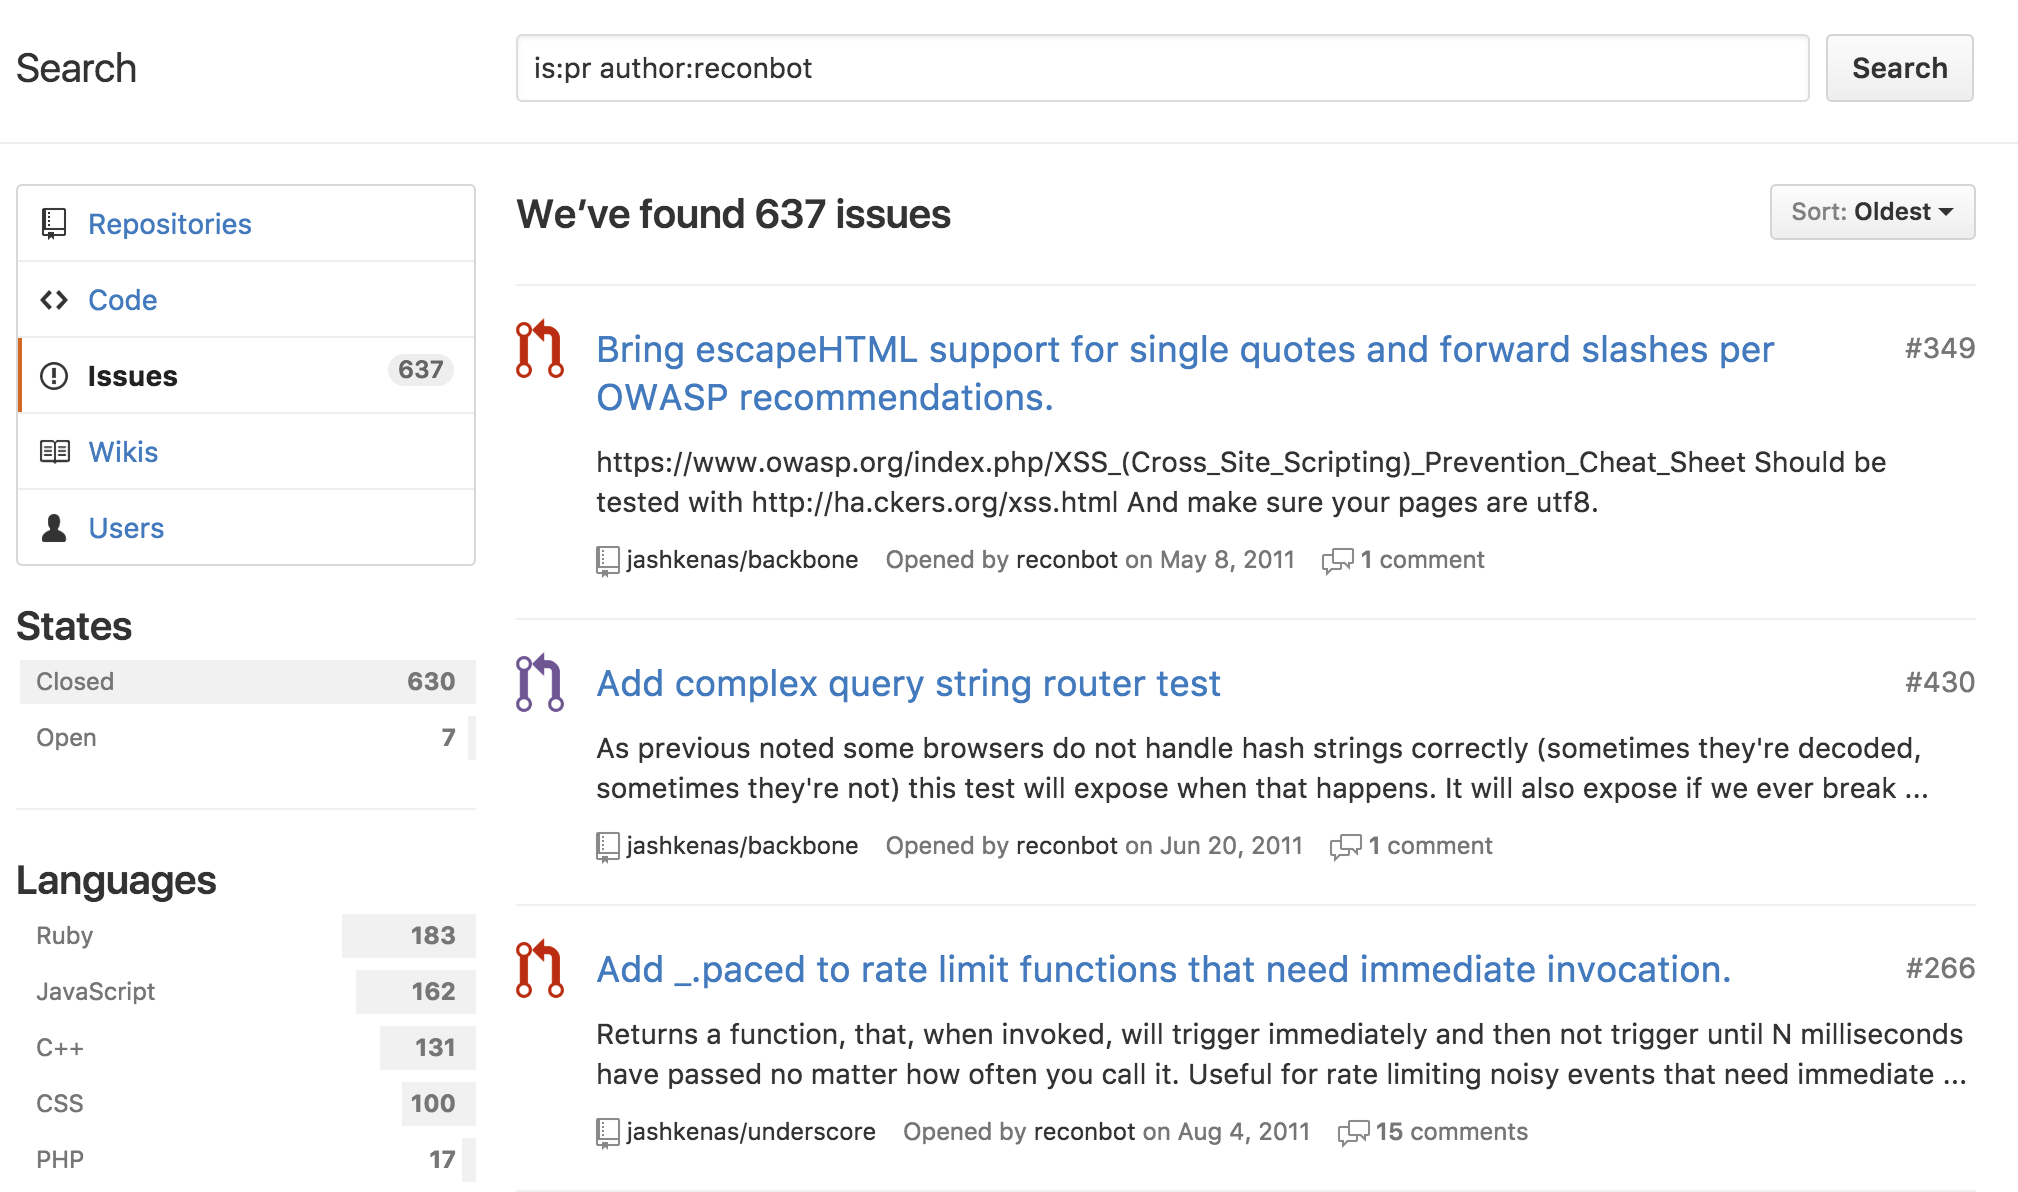
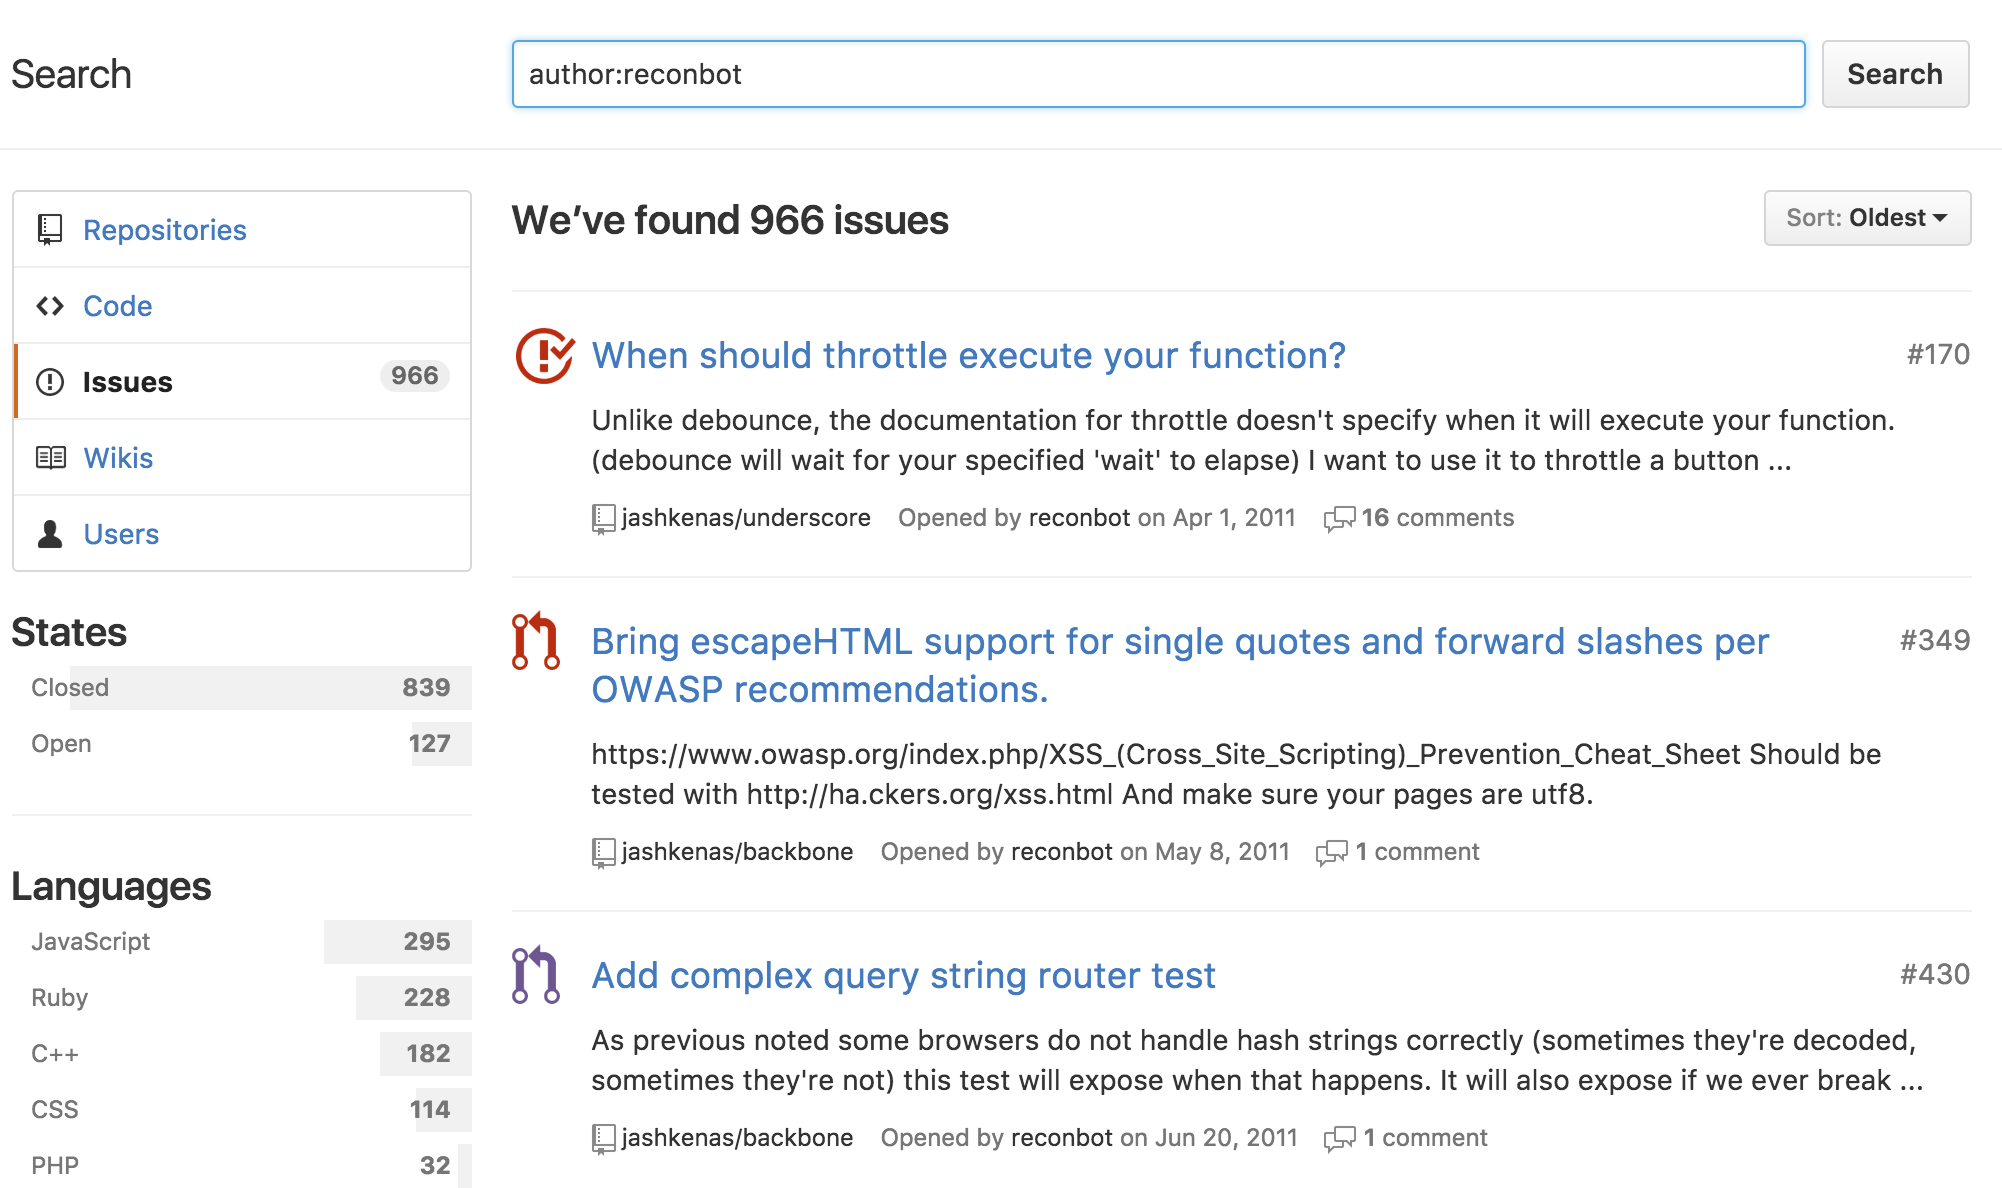
more things

diff --git a/README.md b/README.md
@@ -60,3 +60,31 @@ Not even merged
 ---
 
 ![fit](all issues.png)
+
+---
+
+![](dont-remember.gif)
+
+^ Oh man 966 I don't even remember any of them
+
+---
+
+How did this even start?
+
+---
+
+![fit](first issue.png)
+
+---
+
+![fit](first rejection.png)
+
+---
+
+![fit](first-major-issue.png)
+
+^ 6 months, 16 comments
+
+---
+
+![fit](solved.png)
